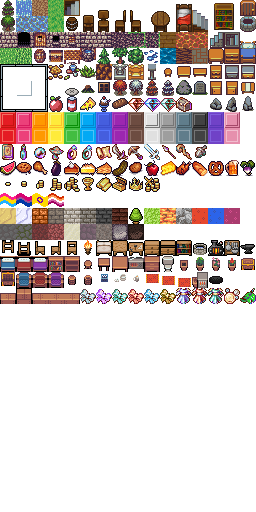
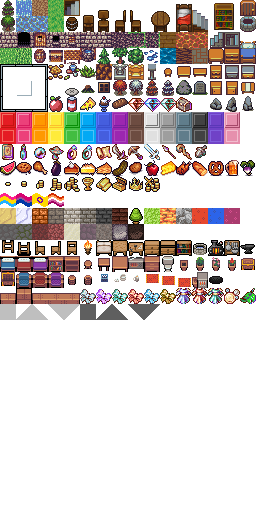
Add shadow tiles

Changed region(s): [[0.0, 0.5938, 0.625, 0.625]]

diff --git a/client/js/predefined.js b/client/js/predefined.js
@@ -1062,6 +1062,67 @@ Predefined.colorfloor15 = {
   pic: [-1, 14, 8],
 };
 
+Predefined.shadow = {
+  name: "shadow",
+  pic: [-1, 0, 19],
+  obj: true,
+  over: true
+};
+Predefined.shadow_dr = {
+  name: "shadow",
+  pic: [-1, 1, 19],
+  obj: true,
+  over: true
+};
+Predefined.shadow_dl = {
+  name: "shadow",
+  pic: [-1, 2, 19],
+  obj: true,
+  over: true
+};
+Predefined.shadow_ur = {
+  name: "shadow",
+  pic: [-1, 3, 19],
+  obj: true,
+  over: true
+};
+Predefined.shadow_ul = {
+  name: "shadow",
+  pic: [-1, 4, 19],
+  obj: true,
+  over: true
+};
+Predefined.shadow2 = {
+  name: "shadow",
+  pic: [-1, 5, 19],
+  obj: true,
+  over: true
+};
+Predefined.shadow2_dr = {
+  name: "shadow",
+  pic: [-1, 6, 19],
+  obj: true,
+  over: true
+};
+Predefined.shadow2_dl = {
+  name: "shadow",
+  pic: [-1, 7, 19],
+  obj: true,
+  over: true
+};
+Predefined.shadow2_ur = {
+  name: "shadow",
+  pic: [-1, 8, 19],
+  obj: true,
+  over: true
+};
+Predefined.shadow2_ul = {
+  name: "shadow",
+  pic: [-1, 9, 19],
+  obj: true,
+  over: true
+};
+
 
 var PredefinedArray = [];
 var PredefinedArrayNames = [];
